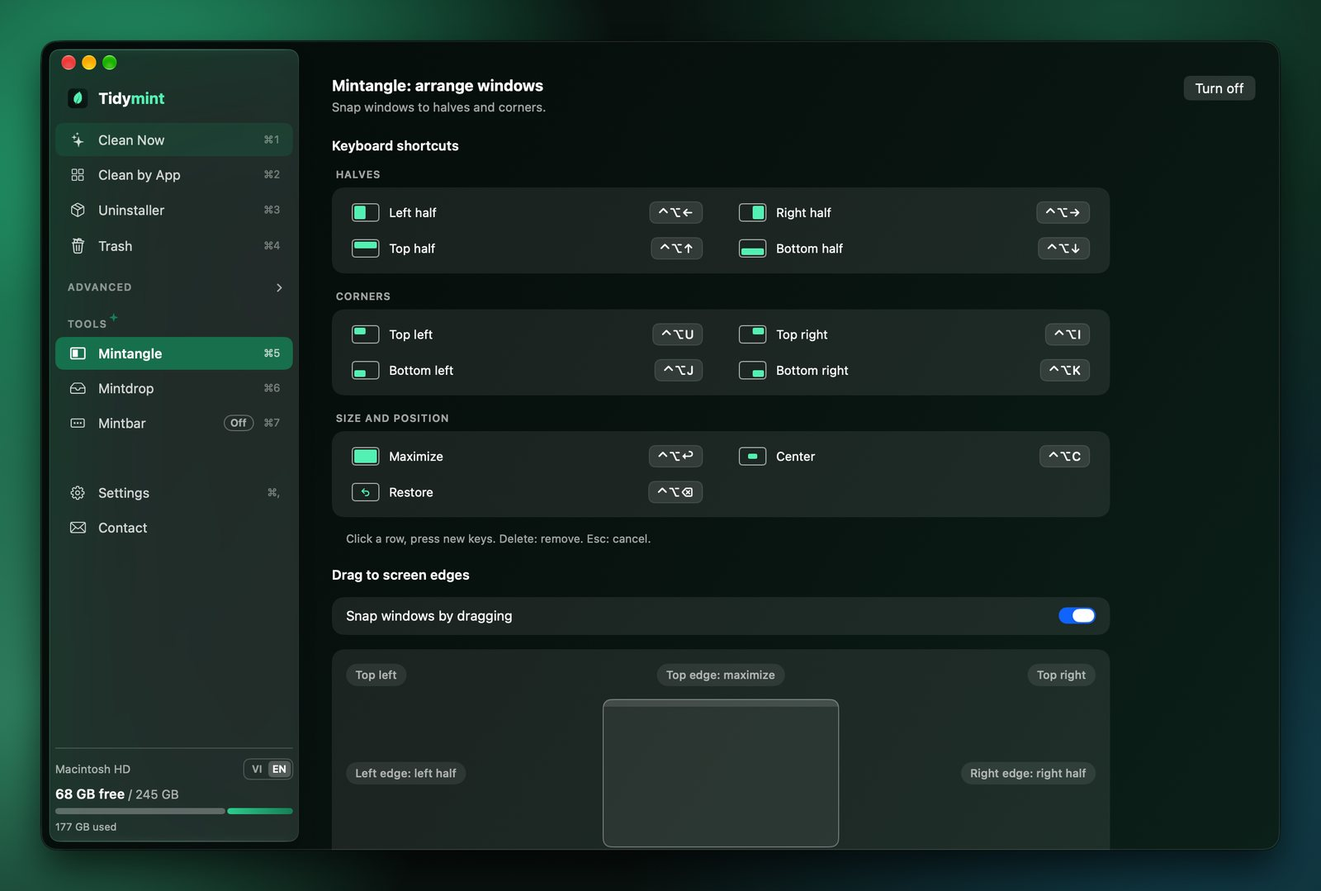
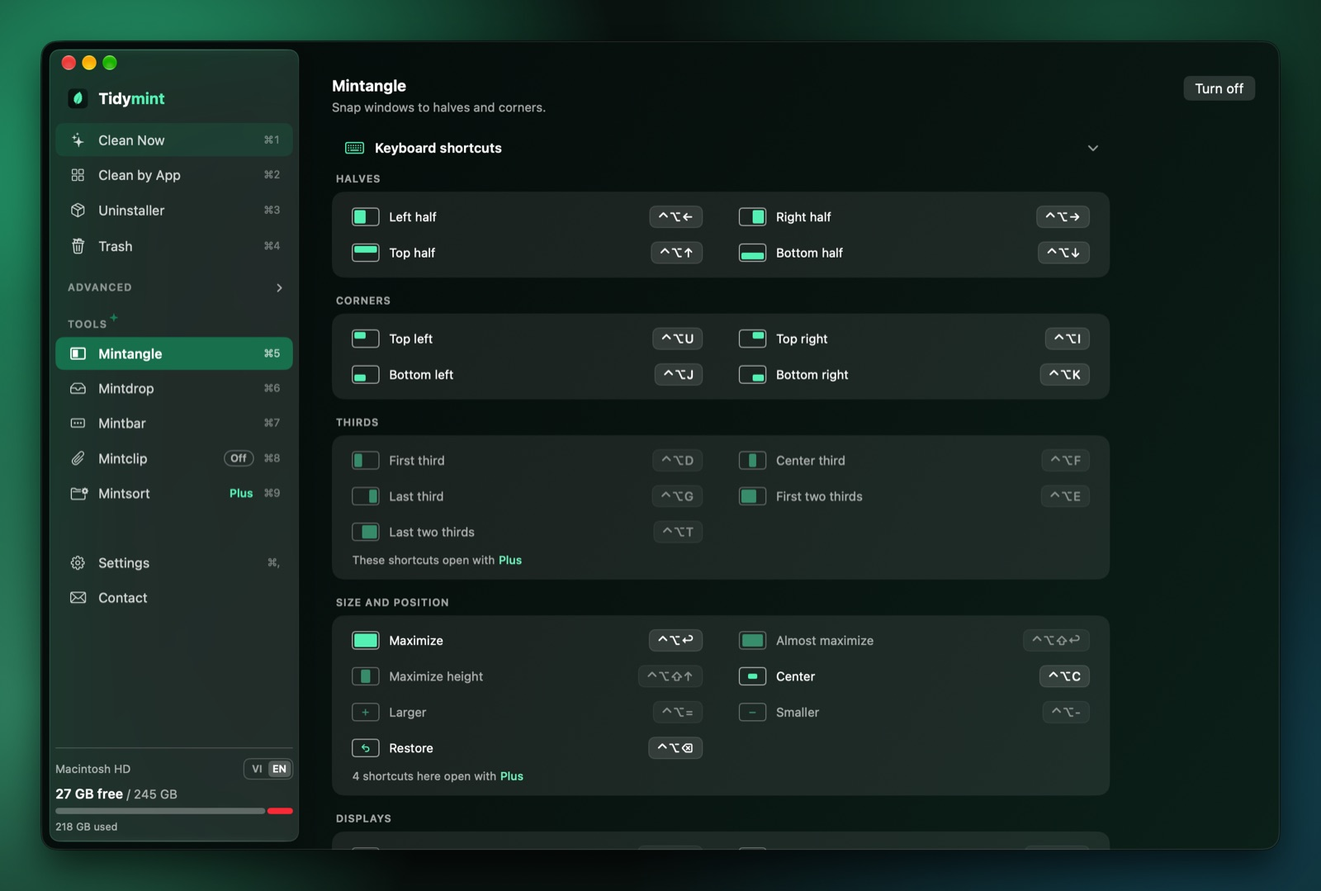
Website update: Mintbar guide and 1.0.0 screenshots; update worker daily tables

diff --git a/docs/vi/index.html b/docs/vi/index.html
@@ -293,7 +293,7 @@ summary{user-select:none}
 </section>
 
 <section style="padding-top:24px">
-  <div class="fx" id="mintbar"><div class="fx-t"><span class="ico"><svg viewBox="0 0 24 24" width="22" height="22" fill="none" stroke="currentColor" stroke-width="1.75" stroke-linecap="round" stroke-linejoin="round" aria-hidden="true"><rect width="18" height="18" x="3" y="3" rx="2"/><path d="M3 9h18"/></svg></span><span class="tag">Gọn menu · Mintbar</span><h3>Tối ưu menu bar</h3><p>Mintbar gom icon theo nhóm, một bấm để xem thêm.</p><ul><li><svg viewBox="0 0 24 24" width="16" height="16" fill="none" stroke="currentColor" stroke-width="1.75" stroke-linecap="round" stroke-linejoin="round" aria-hidden="true"><path d="M20 6 9 17l-5-5"/></svg><span>Hết lo tai thỏ</span></li><li><svg viewBox="0 0 24 24" width="16" height="16" fill="none" stroke="currentColor" stroke-width="1.75" stroke-linecap="round" stroke-linejoin="round" aria-hidden="true"><path d="M20 6 9 17l-5-5"/></svg><span>Bấm là mở</span></li><li><svg viewBox="0 0 24 24" width="16" height="16" fill="none" stroke="currentColor" stroke-width="1.75" stroke-linecap="round" stroke-linejoin="round" aria-hidden="true"><path d="M20 6 9 17l-5-5"/></svg><span>Nhóm theo việc</span></li></ul><p class="fine">2 nhóm, mỗi nhóm 4 app. Bật thì macOS mới hỏi quyền. <a class="plus-more" href="plus/?tu=mintbar">Mở thêm với Plus →</a></p><a class="more" href="mintbar-gon-thanh-menu-mac/">Cách dùng Mintbar <span class="arr r">→</span></a></div><div class="fx-i bars"><figure><figcaption>Trước</figcaption><img src="../mintbar-before.jpg?v=d3800ef0" alt="Menu bar trên Mac chật kín icon app trước khi dùng Mintbar" width="900" height="60" loading="lazy"></figure><figure class="after"><figcaption>Sau: gom vào hai nhóm</figcaption><img src="../mintbar-after.jpg?v=14f1bae5" alt="Cùng menu bar khi bật Mintbar: các app nằm sau hai icon nhóm AI và Tools" width="900" height="60" loading="lazy"></figure><figure class="after fan"><figcaption>Bấm icon nhóm: app mở ra ngay bên dưới</figcaption><img src="../mintbar-fan.jpg?v=bdbac061" alt="Bấm nhóm Tools, bốn app mở ra ngay dưới menu bar, con trỏ đang chỉ vào Google Drive" width="900" height="250" loading="lazy"></figure></div></div><div class="fx flip" id="mintangle"><div class="fx-t"><span class="ico"><svg viewBox="0 0 24 24" width="22" height="22" fill="none" stroke="currentColor" stroke-width="1.75" stroke-linecap="round" stroke-linejoin="round" aria-hidden="true"><rect width="7" height="18" x="3" y="3" rx="1"/><rect width="7" height="7" x="14" y="3" rx="1"/><rect width="7" height="7" x="14" y="14" rx="1"/></svg></span><span class="tag">Gọn cửa sổ · Mintangle</span><h3>Hết kéo tay chỉnh cỡ</h3><p>Mintangle xếp cửa sổ bằng một phím tắt hoặc một cú kéo.</p><ul><li><svg viewBox="0 0 24 24" width="16" height="16" fill="none" stroke="currentColor" stroke-width="1.75" stroke-linecap="round" stroke-linejoin="round" aria-hidden="true"><path d="M20 6 9 17l-5-5"/></svg><span>Một phím, nửa màn hình</span></li><li><svg viewBox="0 0 24 24" width="16" height="16" fill="none" stroke="currentColor" stroke-width="1.75" stroke-linecap="round" stroke-linejoin="round" aria-hidden="true"><path d="M20 6 9 17l-5-5"/></svg><span>Kéo vào mép là xếp</span></li><li><svg viewBox="0 0 24 24" width="16" height="16" fill="none" stroke="currentColor" stroke-width="1.75" stroke-linecap="round" stroke-linejoin="round" aria-hidden="true"><path d="M20 6 9 17l-5-5"/></svg><span>4 góc, 4 cửa sổ</span></li></ul><p class="fine">11 thao tác cơ bản. Bật thì macOS mới hỏi quyền Trợ năng. <a class="plus-more" href="plus/?tu=mintangle">Mở thêm với Plus →</a></p><a class="more" href="mintangle-xep-cua-so-mac/">Cách dùng Mintangle <span class="arr r">→</span></a></div><div class="fx-i"><img src="mintangle.jpg?v=433f4e3a" alt="Trang Mintangle liệt kê phím tắt xếp cửa sổ: nửa màn hình và góc" loading="lazy" width="1600" height="1079"></div></div><div class="fx" id="mintdrop"><div class="fx-t"><span class="ico"><svg viewBox="0 0 24 24" width="22" height="22" fill="none" stroke="currentColor" stroke-width="1.75" stroke-linecap="round" stroke-linejoin="round" aria-hidden="true"><polyline points="22 12 16 12 14 15 10 15 8 12 2 12"/><path d="M5.45 5.11 2 12v6a2 2 0 0 0 2 2h16a2 2 0 0 0 2-2v-6l-3.45-6.89A2 2 0 0 0 16.76 4H7.24a2 2 0 0 0-1.79 1.11z"/></svg></span><span class="tag">Gọn kéo thả · Mintdrop</span><h3>Gom một nơi. Thả đúng chỗ.</h3><p>Kệ nhỏ nổi trên màn hình, thả vào rồi kéo ra nơi cần.</p><ul><li><svg viewBox="0 0 24 24" width="16" height="16" fill="none" stroke="currentColor" stroke-width="1.75" stroke-linecap="round" stroke-linejoin="round" aria-hidden="true"><path d="M20 6 9 17l-5-5"/></svg><span>Lắc là có kệ</span></li><li><svg viewBox="0 0 24 24" width="16" height="16" fill="none" stroke="currentColor" stroke-width="1.75" stroke-linecap="round" stroke-linejoin="round" aria-hidden="true"><path d="M20 6 9 17l-5-5"/></svg><span>Xem nhanh trong kệ</span></li><li><svg viewBox="0 0 24 24" width="16" height="16" fill="none" stroke="currentColor" stroke-width="1.75" stroke-linecap="round" stroke-linejoin="round" aria-hidden="true"><path d="M20 6 9 17l-5-5"/></svg><span>Kéo nhầm? Có thể hoàn tác.</span></li></ul><p class="fine">Kệ chỉ nhớ đường dẫn, không chép file. <a class="plus-more" href="plus/?tu=mintdrop">Mở thêm với Plus →</a></p><a class="more" href="mintdrop-ke-tha-file-mac/">Cách dùng Mintdrop <span class="arr r">→</span></a></div><div class="fx-i"><img src="mintdrop.jpg?v=2d5efa71" alt="Kệ Mintdrop nổi trên Tidymint, đang giữ bốn file" loading="lazy" width="1600" height="891"></div></div><div class="fx flip" id="mintclip"><div class="fx-t"><span class="ico"><svg viewBox="0 0 24 24" width="22" height="22" fill="none" stroke="currentColor" stroke-width="1.75" stroke-linecap="round" stroke-linejoin="round" aria-hidden="true"><path d="m16 6-8.414 8.586a2 2 0 0 0 2.829 2.829l8.414-8.586a4 4 0 1 0-5.657-5.657l-8.379 8.551a6 6 0 1 0 8.485 8.485l8.379-8.551"/></svg></span><span class="tag">Gọn copy · Mintclip</span><h3>Copy rồi, tìm lại được.</h3><p>Mintclip giữ 100 mục bạn copy gần nhất, bấm là dán lại.</p><ul><li><svg viewBox="0 0 24 24" width="16" height="16" fill="none" stroke="currentColor" stroke-width="1.75" stroke-linecap="round" stroke-linejoin="round" aria-hidden="true"><path d="M20 6 9 17l-5-5"/></svg><span>Bấm là dán, không cần ⌘V</span></li><li><svg viewBox="0 0 24 24" width="16" height="16" fill="none" stroke="currentColor" stroke-width="1.75" stroke-linecap="round" stroke-linejoin="round" aria-hidden="true"><path d="M20 6 9 17l-5-5"/></svg><span>Gõ là tìm, cả chữ trong ảnh</span></li><li><svg viewBox="0 0 24 24" width="16" height="16" fill="none" stroke="currentColor" stroke-width="1.75" stroke-linecap="round" stroke-linejoin="round" aria-hidden="true"><path d="M20 6 9 17l-5-5"/></svg><span>Bỏ qua trình quản lý mật khẩu</span></li></ul><p class="fine">Bật thì macOS hỏi quyền dán từ app khác. Lưu trên máy của bạn. <a class="plus-more" href="plus/?tu=mintclip">Mở thêm với Plus →</a></p><a class="more" href="mintclip-lich-su-clipboard-mac/">Cách dùng Mintclip <span class="arr r">→</span></a></div><div class="fx-i"><img src="mintclip.jpg?v=48477e4a" alt="Danh sách Mintclip nổi trên trang Mintclip của Tidymint, đang giữ chữ, link, một ảnh và một mã màu" loading="lazy" width="1600" height="1050"></div></div>
+  <div class="fx" id="mintbar"><div class="fx-t"><span class="ico"><svg viewBox="0 0 24 24" width="22" height="22" fill="none" stroke="currentColor" stroke-width="1.75" stroke-linecap="round" stroke-linejoin="round" aria-hidden="true"><rect width="18" height="18" x="3" y="3" rx="2"/><path d="M3 9h18"/></svg></span><span class="tag">Gọn menu · Mintbar</span><h3>Tối ưu menu bar</h3><p>Mintbar gom icon theo nhóm, một bấm để xem thêm.</p><ul><li><svg viewBox="0 0 24 24" width="16" height="16" fill="none" stroke="currentColor" stroke-width="1.75" stroke-linecap="round" stroke-linejoin="round" aria-hidden="true"><path d="M20 6 9 17l-5-5"/></svg><span>Hết lo tai thỏ</span></li><li><svg viewBox="0 0 24 24" width="16" height="16" fill="none" stroke="currentColor" stroke-width="1.75" stroke-linecap="round" stroke-linejoin="round" aria-hidden="true"><path d="M20 6 9 17l-5-5"/></svg><span>Bấm là mở</span></li><li><svg viewBox="0 0 24 24" width="16" height="16" fill="none" stroke="currentColor" stroke-width="1.75" stroke-linecap="round" stroke-linejoin="round" aria-hidden="true"><path d="M20 6 9 17l-5-5"/></svg><span>Nhóm theo việc</span></li></ul><p class="fine">2 nhóm, mỗi nhóm 4 app. Bật thì macOS mới hỏi quyền. <a class="plus-more" href="plus/?tu=mintbar">Mở thêm với Plus →</a></p><a class="more" href="mintbar-gon-thanh-menu-mac/">Cách dùng Mintbar <span class="arr r">→</span></a></div><div class="fx-i bars"><figure><figcaption>Trước</figcaption><img src="../mintbar-before.jpg?v=d3800ef0" alt="Menu bar trên Mac chật kín icon app trước khi dùng Mintbar" width="900" height="60" loading="lazy"></figure><figure class="after"><figcaption>Sau: gom vào hai nhóm</figcaption><img src="../mintbar-after.jpg?v=14f1bae5" alt="Cùng menu bar khi bật Mintbar: các app nằm sau hai icon nhóm AI và Tools" width="900" height="60" loading="lazy"></figure><figure class="after fan"><figcaption>Bấm icon nhóm: app mở ra ngay bên dưới</figcaption><img src="../mintbar-fan.jpg?v=bdbac061" alt="Bấm nhóm Tools, bốn app mở ra ngay dưới menu bar, con trỏ đang chỉ vào Google Drive" width="900" height="250" loading="lazy"></figure></div></div><div class="fx flip" id="mintangle"><div class="fx-t"><span class="ico"><svg viewBox="0 0 24 24" width="22" height="22" fill="none" stroke="currentColor" stroke-width="1.75" stroke-linecap="round" stroke-linejoin="round" aria-hidden="true"><rect width="7" height="18" x="3" y="3" rx="1"/><rect width="7" height="7" x="14" y="3" rx="1"/><rect width="7" height="7" x="14" y="14" rx="1"/></svg></span><span class="tag">Gọn cửa sổ · Mintangle</span><h3>Hết kéo tay chỉnh cỡ</h3><p>Mintangle xếp cửa sổ bằng một phím tắt hoặc một cú kéo.</p><ul><li><svg viewBox="0 0 24 24" width="16" height="16" fill="none" stroke="currentColor" stroke-width="1.75" stroke-linecap="round" stroke-linejoin="round" aria-hidden="true"><path d="M20 6 9 17l-5-5"/></svg><span>Một phím, nửa màn hình</span></li><li><svg viewBox="0 0 24 24" width="16" height="16" fill="none" stroke="currentColor" stroke-width="1.75" stroke-linecap="round" stroke-linejoin="round" aria-hidden="true"><path d="M20 6 9 17l-5-5"/></svg><span>Kéo vào mép là xếp</span></li><li><svg viewBox="0 0 24 24" width="16" height="16" fill="none" stroke="currentColor" stroke-width="1.75" stroke-linecap="round" stroke-linejoin="round" aria-hidden="true"><path d="M20 6 9 17l-5-5"/></svg><span>4 góc, 4 cửa sổ</span></li></ul><p class="fine">11 thao tác cơ bản. Bật thì macOS mới hỏi quyền Trợ năng. <a class="plus-more" href="plus/?tu=mintangle">Mở thêm với Plus →</a></p><a class="more" href="mintangle-xep-cua-so-mac/">Cách dùng Mintangle <span class="arr r">→</span></a></div><div class="fx-i"><img src="mintangle.jpg?v=31fde24b" alt="Trang Mintangle liệt kê phím tắt xếp cửa sổ: nửa màn hình và góc" loading="lazy" width="1600" height="1079"></div></div><div class="fx" id="mintdrop"><div class="fx-t"><span class="ico"><svg viewBox="0 0 24 24" width="22" height="22" fill="none" stroke="currentColor" stroke-width="1.75" stroke-linecap="round" stroke-linejoin="round" aria-hidden="true"><polyline points="22 12 16 12 14 15 10 15 8 12 2 12"/><path d="M5.45 5.11 2 12v6a2 2 0 0 0 2 2h16a2 2 0 0 0 2-2v-6l-3.45-6.89A2 2 0 0 0 16.76 4H7.24a2 2 0 0 0-1.79 1.11z"/></svg></span><span class="tag">Gọn kéo thả · Mintdrop</span><h3>Gom một nơi. Thả đúng chỗ.</h3><p>Kệ nhỏ nổi trên màn hình, thả vào rồi kéo ra nơi cần.</p><ul><li><svg viewBox="0 0 24 24" width="16" height="16" fill="none" stroke="currentColor" stroke-width="1.75" stroke-linecap="round" stroke-linejoin="round" aria-hidden="true"><path d="M20 6 9 17l-5-5"/></svg><span>Lắc là có kệ</span></li><li><svg viewBox="0 0 24 24" width="16" height="16" fill="none" stroke="currentColor" stroke-width="1.75" stroke-linecap="round" stroke-linejoin="round" aria-hidden="true"><path d="M20 6 9 17l-5-5"/></svg><span>Xem nhanh trong kệ</span></li><li><svg viewBox="0 0 24 24" width="16" height="16" fill="none" stroke="currentColor" stroke-width="1.75" stroke-linecap="round" stroke-linejoin="round" aria-hidden="true"><path d="M20 6 9 17l-5-5"/></svg><span>Kéo nhầm? Có thể hoàn tác.</span></li></ul><p class="fine">Kệ chỉ nhớ đường dẫn, không chép file. <a class="plus-more" href="plus/?tu=mintdrop">Mở thêm với Plus →</a></p><a class="more" href="mintdrop-ke-tha-file-mac/">Cách dùng Mintdrop <span class="arr r">→</span></a></div><div class="fx-i"><img src="mintdrop.jpg?v=78a1c525" alt="Kệ Mintdrop nổi trên Tidymint, đang giữ bốn file" loading="lazy" width="1600" height="891"></div></div><div class="fx flip" id="mintclip"><div class="fx-t"><span class="ico"><svg viewBox="0 0 24 24" width="22" height="22" fill="none" stroke="currentColor" stroke-width="1.75" stroke-linecap="round" stroke-linejoin="round" aria-hidden="true"><path d="m16 6-8.414 8.586a2 2 0 0 0 2.829 2.829l8.414-8.586a4 4 0 1 0-5.657-5.657l-8.379 8.551a6 6 0 1 0 8.485 8.485l8.379-8.551"/></svg></span><span class="tag">Gọn copy · Mintclip</span><h3>Copy rồi, tìm lại được.</h3><p>Mintclip giữ 100 mục bạn copy gần nhất, bấm là dán lại.</p><ul><li><svg viewBox="0 0 24 24" width="16" height="16" fill="none" stroke="currentColor" stroke-width="1.75" stroke-linecap="round" stroke-linejoin="round" aria-hidden="true"><path d="M20 6 9 17l-5-5"/></svg><span>Bấm là dán, không cần ⌘V</span></li><li><svg viewBox="0 0 24 24" width="16" height="16" fill="none" stroke="currentColor" stroke-width="1.75" stroke-linecap="round" stroke-linejoin="round" aria-hidden="true"><path d="M20 6 9 17l-5-5"/></svg><span>Gõ là tìm, cả chữ trong ảnh</span></li><li><svg viewBox="0 0 24 24" width="16" height="16" fill="none" stroke="currentColor" stroke-width="1.75" stroke-linecap="round" stroke-linejoin="round" aria-hidden="true"><path d="M20 6 9 17l-5-5"/></svg><span>Bỏ qua trình quản lý mật khẩu</span></li></ul><p class="fine">Bật thì macOS hỏi quyền dán từ app khác. Lưu trên máy của bạn. <a class="plus-more" href="plus/?tu=mintclip">Mở thêm với Plus →</a></p><a class="more" href="mintclip-lich-su-clipboard-mac/">Cách dùng Mintclip <span class="arr r">→</span></a></div><div class="fx-i"><img src="mintclip.jpg?v=48477e4a" alt="Danh sách Mintclip nổi trên trang Mintclip của Tidymint, đang giữ chữ, link, một ảnh và một mã màu" loading="lazy" width="1600" height="1050"></div></div>
 </section>
 
 <section>

diff --git a/docs/index.html b/docs/index.html
@@ -293,7 +293,7 @@ summary{user-select:none}
 </section>
 
 <section style="padding-top:24px">
-  <div class="fx" id="mintbar"><div class="fx-t"><span class="ico"><svg viewBox="0 0 24 24" width="22" height="22" fill="none" stroke="currentColor" stroke-width="1.75" stroke-linecap="round" stroke-linejoin="round" aria-hidden="true"><rect width="18" height="18" x="3" y="3" rx="2"/><path d="M3 9h18"/></svg></span><span class="tag">A tidy menu bar · Mintbar</span><h3>A better menu bar</h3><p>Mintbar groups your icons. One click shows the rest.</p><ul><li><svg viewBox="0 0 24 24" width="16" height="16" fill="none" stroke="currentColor" stroke-width="1.75" stroke-linecap="round" stroke-linejoin="round" aria-hidden="true"><path d="M20 6 9 17l-5-5"/></svg><span>Notch? No problem</span></li><li><svg viewBox="0 0 24 24" width="16" height="16" fill="none" stroke="currentColor" stroke-width="1.75" stroke-linecap="round" stroke-linejoin="round" aria-hidden="true"><path d="M20 6 9 17l-5-5"/></svg><span>Click to open</span></li><li><svg viewBox="0 0 24 24" width="16" height="16" fill="none" stroke="currentColor" stroke-width="1.75" stroke-linecap="round" stroke-linejoin="round" aria-hidden="true"><path d="M20 6 9 17l-5-5"/></svg><span>Grouped by task</span></li></ul><p class="fine">2 groups, 4 apps each. macOS asks for permission only when you turn it on. <a class="plus-more" href="plus/?tu=mintbar">More with Plus →</a></p><a class="more" href="mintbar-tidy-menu-bar-mac/">How Mintbar works <span class="arr r">→</span></a></div><div class="fx-i bars"><figure><figcaption>Before</figcaption><img src="mintbar-before.jpg?v=d3800ef0" alt="Mac menu bar crowded with app icons before Mintbar" width="900" height="60" loading="lazy"></figure><figure class="after"><figcaption>After: gathered into two groups</figcaption><img src="mintbar-after.jpg?v=14f1bae5" alt="The same menu bar with Mintbar on: the apps sit behind two group icons, AI and Tools" width="900" height="60" loading="lazy"></figure><figure class="after fan"><figcaption>Click a group: its apps open right below</figcaption><img src="mintbar-fan.jpg?v=bdbac061" alt="Clicking the Tools group opens its four apps right below the menu bar, with the pointer on Google Drive" width="900" height="250" loading="lazy"></figure></div></div><div class="fx flip" id="mintangle"><div class="fx-t"><span class="ico"><svg viewBox="0 0 24 24" width="22" height="22" fill="none" stroke="currentColor" stroke-width="1.75" stroke-linecap="round" stroke-linejoin="round" aria-hidden="true"><rect width="7" height="18" x="3" y="3" rx="1"/><rect width="7" height="7" x="14" y="3" rx="1"/><rect width="7" height="7" x="14" y="14" rx="1"/></svg></span><span class="tag">Tidy windows · Mintangle</span><h3>No more dragging to resize</h3><p>Mintangle snaps windows with one shortcut or one drag.</p><ul><li><svg viewBox="0 0 24 24" width="16" height="16" fill="none" stroke="currentColor" stroke-width="1.75" stroke-linecap="round" stroke-linejoin="round" aria-hidden="true"><path d="M20 6 9 17l-5-5"/></svg><span>One key, half the screen</span></li><li><svg viewBox="0 0 24 24" width="16" height="16" fill="none" stroke="currentColor" stroke-width="1.75" stroke-linecap="round" stroke-linejoin="round" aria-hidden="true"><path d="M20 6 9 17l-5-5"/></svg><span>Drag to the edge, done</span></li><li><svg viewBox="0 0 24 24" width="16" height="16" fill="none" stroke="currentColor" stroke-width="1.75" stroke-linecap="round" stroke-linejoin="round" aria-hidden="true"><path d="M20 6 9 17l-5-5"/></svg><span>4 corners, 4 windows</span></li></ul><p class="fine">11 basic actions. macOS asks for Accessibility only when you turn it on. <a class="plus-more" href="plus/?tu=mintangle">More with Plus →</a></p><a class="more" href="mintangle-window-tiling-mac/">How Mintangle works <span class="arr r">→</span></a></div><div class="fx-i"><img src="mintangle.jpg?v=90d9dfd6" alt="Mintangle page listing window shortcuts for halves and corners" loading="lazy" width="1600" height="1079"></div></div><div class="fx" id="mintdrop"><div class="fx-t"><span class="ico"><svg viewBox="0 0 24 24" width="22" height="22" fill="none" stroke="currentColor" stroke-width="1.75" stroke-linecap="round" stroke-linejoin="round" aria-hidden="true"><polyline points="22 12 16 12 14 15 10 15 8 12 2 12"/><path d="M5.45 5.11 2 12v6a2 2 0 0 0 2 2h16a2 2 0 0 0 2-2v-6l-3.45-6.89A2 2 0 0 0 16.76 4H7.24a2 2 0 0 0-1.79 1.11z"/></svg></span><span class="tag">Tidy drag and drop · Mintdrop</span><h3>Gather in one place. Drop where it goes.</h3><p>A small floating shelf. Drop files in, drag them out.</p><ul><li><svg viewBox="0 0 24 24" width="16" height="16" fill="none" stroke="currentColor" stroke-width="1.75" stroke-linecap="round" stroke-linejoin="round" aria-hidden="true"><path d="M20 6 9 17l-5-5"/></svg><span>Shake for a shelf</span></li><li><svg viewBox="0 0 24 24" width="16" height="16" fill="none" stroke="currentColor" stroke-width="1.75" stroke-linecap="round" stroke-linejoin="round" aria-hidden="true"><path d="M20 6 9 17l-5-5"/></svg><span>Quick Look on the shelf</span></li><li><svg viewBox="0 0 24 24" width="16" height="16" fill="none" stroke="currentColor" stroke-width="1.75" stroke-linecap="round" stroke-linejoin="round" aria-hidden="true"><path d="M20 6 9 17l-5-5"/></svg><span>Dropped it wrong? Undo.</span></li></ul><p class="fine">The shelf remembers paths, it never copies files. <a class="plus-more" href="plus/?tu=mintdrop">More with Plus →</a></p><a class="more" href="mintdrop-drop-shelf-mac/">How Mintdrop works <span class="arr r">→</span></a></div><div class="fx-i"><img src="mintdrop.jpg?v=2dcd7475" alt="Mintdrop shelf floating over Tidymint with four files on it" loading="lazy" width="1600" height="891"></div></div><div class="fx flip" id="mintclip"><div class="fx-t"><span class="ico"><svg viewBox="0 0 24 24" width="22" height="22" fill="none" stroke="currentColor" stroke-width="1.75" stroke-linecap="round" stroke-linejoin="round" aria-hidden="true"><path d="m16 6-8.414 8.586a2 2 0 0 0 2.829 2.829l8.414-8.586a4 4 0 1 0-5.657-5.657l-8.379 8.551a6 6 0 1 0 8.485 8.485l8.379-8.551"/></svg></span><span class="tag">Tidy copy and paste · Mintclip</span><h3>Copied once, found again.</h3><p>Mintclip keeps your last 100 copies. One click pastes one back.</p><ul><li><svg viewBox="0 0 24 24" width="16" height="16" fill="none" stroke="currentColor" stroke-width="1.75" stroke-linecap="round" stroke-linejoin="round" aria-hidden="true"><path d="M20 6 9 17l-5-5"/></svg><span>Click to paste, no ⌘V needed</span></li><li><svg viewBox="0 0 24 24" width="16" height="16" fill="none" stroke="currentColor" stroke-width="1.75" stroke-linecap="round" stroke-linejoin="round" aria-hidden="true"><path d="M20 6 9 17l-5-5"/></svg><span>Type to find it, even text in images</span></li><li><svg viewBox="0 0 24 24" width="16" height="16" fill="none" stroke="currentColor" stroke-width="1.75" stroke-linecap="round" stroke-linejoin="round" aria-hidden="true"><path d="M20 6 9 17l-5-5"/></svg><span>Password managers are skipped</span></li></ul><p class="fine">macOS asks to allow pasting from other apps when you turn it on. Kept on your Mac. <a class="plus-more" href="plus/?tu=mintclip">More with Plus →</a></p><a class="more" href="mintclip-clipboard-history-mac/">How Mintclip works <span class="arr r">→</span></a></div><div class="fx-i"><img src="mintclip.jpg?v=7a9b0c8d" alt="The Mintclip list floating over Tidymint’s Mintclip page, holding text, links, an image and a colour code" loading="lazy" width="1600" height="1050"></div></div>
+  <div class="fx" id="mintbar"><div class="fx-t"><span class="ico"><svg viewBox="0 0 24 24" width="22" height="22" fill="none" stroke="currentColor" stroke-width="1.75" stroke-linecap="round" stroke-linejoin="round" aria-hidden="true"><rect width="18" height="18" x="3" y="3" rx="2"/><path d="M3 9h18"/></svg></span><span class="tag">A tidy menu bar · Mintbar</span><h3>A better menu bar</h3><p>Mintbar groups your icons. One click shows the rest.</p><ul><li><svg viewBox="0 0 24 24" width="16" height="16" fill="none" stroke="currentColor" stroke-width="1.75" stroke-linecap="round" stroke-linejoin="round" aria-hidden="true"><path d="M20 6 9 17l-5-5"/></svg><span>Notch? No problem</span></li><li><svg viewBox="0 0 24 24" width="16" height="16" fill="none" stroke="currentColor" stroke-width="1.75" stroke-linecap="round" stroke-linejoin="round" aria-hidden="true"><path d="M20 6 9 17l-5-5"/></svg><span>Click to open</span></li><li><svg viewBox="0 0 24 24" width="16" height="16" fill="none" stroke="currentColor" stroke-width="1.75" stroke-linecap="round" stroke-linejoin="round" aria-hidden="true"><path d="M20 6 9 17l-5-5"/></svg><span>Grouped by task</span></li></ul><p class="fine">2 groups, 4 apps each. macOS asks for permission only when you turn it on. <a class="plus-more" href="plus/?tu=mintbar">More with Plus →</a></p><a class="more" href="mintbar-tidy-menu-bar-mac/">How Mintbar works <span class="arr r">→</span></a></div><div class="fx-i bars"><figure><figcaption>Before</figcaption><img src="mintbar-before.jpg?v=d3800ef0" alt="Mac menu bar crowded with app icons before Mintbar" width="900" height="60" loading="lazy"></figure><figure class="after"><figcaption>After: gathered into two groups</figcaption><img src="mintbar-after.jpg?v=14f1bae5" alt="The same menu bar with Mintbar on: the apps sit behind two group icons, AI and Tools" width="900" height="60" loading="lazy"></figure><figure class="after fan"><figcaption>Click a group: its apps open right below</figcaption><img src="mintbar-fan.jpg?v=bdbac061" alt="Clicking the Tools group opens its four apps right below the menu bar, with the pointer on Google Drive" width="900" height="250" loading="lazy"></figure></div></div><div class="fx flip" id="mintangle"><div class="fx-t"><span class="ico"><svg viewBox="0 0 24 24" width="22" height="22" fill="none" stroke="currentColor" stroke-width="1.75" stroke-linecap="round" stroke-linejoin="round" aria-hidden="true"><rect width="7" height="18" x="3" y="3" rx="1"/><rect width="7" height="7" x="14" y="3" rx="1"/><rect width="7" height="7" x="14" y="14" rx="1"/></svg></span><span class="tag">Tidy windows · Mintangle</span><h3>No more dragging to resize</h3><p>Mintangle snaps windows with one shortcut or one drag.</p><ul><li><svg viewBox="0 0 24 24" width="16" height="16" fill="none" stroke="currentColor" stroke-width="1.75" stroke-linecap="round" stroke-linejoin="round" aria-hidden="true"><path d="M20 6 9 17l-5-5"/></svg><span>One key, half the screen</span></li><li><svg viewBox="0 0 24 24" width="16" height="16" fill="none" stroke="currentColor" stroke-width="1.75" stroke-linecap="round" stroke-linejoin="round" aria-hidden="true"><path d="M20 6 9 17l-5-5"/></svg><span>Drag to the edge, done</span></li><li><svg viewBox="0 0 24 24" width="16" height="16" fill="none" stroke="currentColor" stroke-width="1.75" stroke-linecap="round" stroke-linejoin="round" aria-hidden="true"><path d="M20 6 9 17l-5-5"/></svg><span>4 corners, 4 windows</span></li></ul><p class="fine">11 basic actions. macOS asks for Accessibility only when you turn it on. <a class="plus-more" href="plus/?tu=mintangle">More with Plus →</a></p><a class="more" href="mintangle-window-tiling-mac/">How Mintangle works <span class="arr r">→</span></a></div><div class="fx-i"><img src="mintangle.jpg?v=8a5fb6d4" alt="Mintangle page listing window shortcuts for halves and corners" loading="lazy" width="1600" height="1079"></div></div><div class="fx" id="mintdrop"><div class="fx-t"><span class="ico"><svg viewBox="0 0 24 24" width="22" height="22" fill="none" stroke="currentColor" stroke-width="1.75" stroke-linecap="round" stroke-linejoin="round" aria-hidden="true"><polyline points="22 12 16 12 14 15 10 15 8 12 2 12"/><path d="M5.45 5.11 2 12v6a2 2 0 0 0 2 2h16a2 2 0 0 0 2-2v-6l-3.45-6.89A2 2 0 0 0 16.76 4H7.24a2 2 0 0 0-1.79 1.11z"/></svg></span><span class="tag">Tidy drag and drop · Mintdrop</span><h3>Gather in one place. Drop where it goes.</h3><p>A small floating shelf. Drop files in, drag them out.</p><ul><li><svg viewBox="0 0 24 24" width="16" height="16" fill="none" stroke="currentColor" stroke-width="1.75" stroke-linecap="round" stroke-linejoin="round" aria-hidden="true"><path d="M20 6 9 17l-5-5"/></svg><span>Shake for a shelf</span></li><li><svg viewBox="0 0 24 24" width="16" height="16" fill="none" stroke="currentColor" stroke-width="1.75" stroke-linecap="round" stroke-linejoin="round" aria-hidden="true"><path d="M20 6 9 17l-5-5"/></svg><span>Quick Look on the shelf</span></li><li><svg viewBox="0 0 24 24" width="16" height="16" fill="none" stroke="currentColor" stroke-width="1.75" stroke-linecap="round" stroke-linejoin="round" aria-hidden="true"><path d="M20 6 9 17l-5-5"/></svg><span>Dropped it wrong? Undo.</span></li></ul><p class="fine">The shelf remembers paths, it never copies files. <a class="plus-more" href="plus/?tu=mintdrop">More with Plus →</a></p><a class="more" href="mintdrop-drop-shelf-mac/">How Mintdrop works <span class="arr r">→</span></a></div><div class="fx-i"><img src="mintdrop.jpg?v=deabbcc4" alt="Mintdrop shelf floating over Tidymint with four files on it" loading="lazy" width="1600" height="891"></div></div><div class="fx flip" id="mintclip"><div class="fx-t"><span class="ico"><svg viewBox="0 0 24 24" width="22" height="22" fill="none" stroke="currentColor" stroke-width="1.75" stroke-linecap="round" stroke-linejoin="round" aria-hidden="true"><path d="m16 6-8.414 8.586a2 2 0 0 0 2.829 2.829l8.414-8.586a4 4 0 1 0-5.657-5.657l-8.379 8.551a6 6 0 1 0 8.485 8.485l8.379-8.551"/></svg></span><span class="tag">Tidy copy and paste · Mintclip</span><h3>Copied once, found again.</h3><p>Mintclip keeps your last 100 copies. One click pastes one back.</p><ul><li><svg viewBox="0 0 24 24" width="16" height="16" fill="none" stroke="currentColor" stroke-width="1.75" stroke-linecap="round" stroke-linejoin="round" aria-hidden="true"><path d="M20 6 9 17l-5-5"/></svg><span>Click to paste, no ⌘V needed</span></li><li><svg viewBox="0 0 24 24" width="16" height="16" fill="none" stroke="currentColor" stroke-width="1.75" stroke-linecap="round" stroke-linejoin="round" aria-hidden="true"><path d="M20 6 9 17l-5-5"/></svg><span>Type to find it, even text in images</span></li><li><svg viewBox="0 0 24 24" width="16" height="16" fill="none" stroke="currentColor" stroke-width="1.75" stroke-linecap="round" stroke-linejoin="round" aria-hidden="true"><path d="M20 6 9 17l-5-5"/></svg><span>Password managers are skipped</span></li></ul><p class="fine">macOS asks to allow pasting from other apps when you turn it on. Kept on your Mac. <a class="plus-more" href="plus/?tu=mintclip">More with Plus →</a></p><a class="more" href="mintclip-clipboard-history-mac/">How Mintclip works <span class="arr r">→</span></a></div><div class="fx-i"><img src="mintclip.jpg?v=7a9b0c8d" alt="The Mintclip list floating over Tidymint’s Mintclip page, holding text, links, an image and a colour code" loading="lazy" width="1600" height="1050"></div></div>
 </section>
 
 <section>

diff --git a/backend/update-worker.js b/backend/update-worker.js
@@ -121,6 +121,17 @@ const STATS = {
   // Copies in use by kind (from the release that opens sales): blob11 "0" free, "1" in the trial, "2" one or more tools
   // bought, "3" the bundle bought; "" a release before it. One copy is one install number, so this counts Macs, not checks.
   "plans-week": `SELECT toStartOfWeek(timestamp) AS week, blob11 AS plan, count(DISTINCT blob10) AS machines FROM tidymint_checks WHERE ${D90} AND blob1 = 'Tidymint' AND blob10 != '' GROUP BY week, plan ORDER BY week`,
+  // The same count by day and version, for the morning report (23/11/2026): how many copies of each release are
+  // free, in the trial or paid. A copy shows the kind it had at its check of that day.
+  "plans-day": `SELECT ${DAY} AS day, blob2 AS version, blob11 AS plan, count(DISTINCT blob10) AS machines FROM tidymint_checks WHERE ${D90} AND blob1 = 'Tidymint' AND blob10 != '' GROUP BY day, version, plan ORDER BY day`,
+  // The licence Worker's own dataset (tidymint_license; layout in backend/license/license-worker.js, count()). Totals
+  // only: no key id, no machine hash and no address leaves in these tables.
+  //   trials-day: trial requests by outcome ("started": a Mac began its trial that day; "had": it asked again).
+  //   keys-day: key requests by action and outcome ("confirm"/"added": a Mac was added to a key).
+  //   keys-added-day: Macs added to a key, by product and whole days since that Mac's trial began ("none": never tried).
+  "trials-day": `SELECT ${DAY} AS day, blob2 AS action, blob3 AS outcome, SUM(_sample_interval) AS n, count(DISTINCT blob6) AS machines FROM tidymint_license WHERE ${D90} AND blob1 = 'license' AND (blob2 = 'trial/start' OR blob2 = 'trial/status') GROUP BY day, action, outcome ORDER BY day`,
+  "keys-day": `SELECT ${DAY} AS day, blob2 AS action, blob3 AS outcome, SUM(_sample_interval) AS n, count(DISTINCT blob5) AS keys, count(DISTINCT blob6) AS machines FROM tidymint_license WHERE ${D90} AND blob1 = 'license' AND blob2 != 'trial/start' AND blob2 != 'trial/status' GROUP BY day, action, outcome ORDER BY day`,
+  "keys-added-day": `SELECT ${DAY} AS day, blob3 AS product, blob4 AS days_since_trial, SUM(_sample_interval) AS n FROM tidymint_license WHERE ${D90} AND blob1 = 'funnel' AND blob2 = 'trial_to_key' GROUP BY day, product, days_since_trial ORDER BY day`,
   "clicks": `SELECT ${DAY} AS day, blob2 AS version, SUM(_sample_interval) AS n FROM tidymint_checks WHERE ${D90} AND blob1 = 'click' GROUP BY day, version ORDER BY day`,
   "usage": `SELECT ${DAY} AS day, blob2 AS version, SUM(_sample_interval) AS reports, ` +
            USAGE_KEYS.map((k, i) => `SUM(double${i + 1}) AS ${k}`).join(", ") +

diff --git a/docs/vi/mintbar-gon-thanh-menu-mac/index.html b/docs/vi/mintbar-gon-thanh-menu-mac/index.html
@@ -271,14 +271,14 @@ summary{user-select:none}
 <h2 id="tao-nhom">Tạo nhóm</h2>
 <ol class="steps"><li>Ở mục <b>Nhóm</b>, bấm <b>Thêm nhóm</b>.</li>
 <li>Đặt tên và chọn icon cho nhóm: 12 icon miễn phí, Plus có mọi bộ icon và màu riêng.</li>
-<li>Tick các app muốn gom vào. Icon của các app đó rời menu bar, icon nhóm hiện ra thay chỗ.</li></ol>
-<figure class="fig-app"><img src="../mintbar.jpg?v=32999b0c" alt="Trang Mintbar của Tidymint: danh sách app có icon trên menu bar và hai nhóm AI, Kết nối" width="1600" height="1079" loading="lazy"><figcaption>Trang Mintbar: mỗi app nằm trong nhóm nào, và hai nhóm đang dùng.</figcaption></figure>
+<li>Bấm <b>Thêm app</b> để thấy đủ danh sách, rồi tick các app muốn gom vào. Icon của các app đó rời menu bar, icon nhóm hiện ra thay chỗ.</li></ol>
+<figure class="fig-app"><img src="../mintbar.jpg?v=2e1272ac" alt="Trang Mintbar của Tidymint: danh sách app có icon trên menu bar và hai nhóm AI, Kết nối" width="1600" height="1079" loading="lazy"><figcaption>Trang Mintbar: mỗi app nằm trong nhóm nào, và hai nhóm đang dùng.</figcaption></figure>
 <p>Dưới icon nhóm có một hàng chấm nhỏ, mỗi chấm là một app trong nhóm. Một app có thể nằm trong nhiều nhóm.</p>
 <h2 id="dung">Mở app trong nhóm</h2>
 <ul><li><b>Bấm icon nhóm</b>: các app mở ra ngay bên dưới. Bấm lần nữa, hoặc nhấn Esc, để đóng.</li>
 <li><b>Bấm một app vừa mở ra</b>: menu hoặc cửa sổ nhỏ của app đó mở ra. App chưa chạy thì được mở lên.</li>
 <li><b>Giữ Option rồi bấm icon nhóm</b>: mở trang Mintbar.</li>
-<li><b>Đổi thứ tự icon</b>: giữ ⌘ rồi kéo icon tới chỗ mới. Đây là tính năng có sẵn của macOS, dùng được cho cả icon nhóm.</li></ul>
+<li><b>Đổi thứ tự icon</b>: giữ ⌘ rồi kéo icon tới chỗ mới.</li></ul>
 <figure class="fig-app"><img src="../../mintbar-fan.jpg?v=bdbac061" alt="Bấm nhóm Tools, bốn app mở ra ngay dưới menu bar, con trỏ đang chỉ vào Google Drive" width="900" height="250" loading="lazy"><figcaption>Bấm icon nhóm: app mở ra ngay bên dưới.</figcaption></figure>
 <h2 id="luu-y">Vài điều cần biết</h2>
 <ul><li><b>Đồng hồ và Trung tâm điều khiển luôn ở lại</b> trên menu bar, Mintbar không đưa hai mục này vào nhóm.</li>

diff --git a/docs/mintbar-tidy-menu-bar-mac/index.html b/docs/mintbar-tidy-menu-bar-mac/index.html
@@ -271,14 +271,14 @@ summary{user-select:none}
 <h2 id="group">Make a group</h2>
 <ol class="steps"><li>Under <b>Groups</b>, click <b>New group</b>.</li>
 <li>Name it and pick an icon: 12 are free, Plus has every icon set and your own colors.</li>
-<li>Tick the apps to gather. Their icons leave the menu bar and the group icon takes their place.</li></ol>
-<figure class="fig-app"><img src="../mintbar.jpg?v=59d3aaae" alt="The Mintbar page in Tidymint: the apps with a menu bar icon and two groups, AI and Connection" width="1600" height="1079" loading="lazy"><figcaption>The Mintbar page: which group each app is in, and the two groups in use.</figcaption></figure>
+<li>Click <b>Add apps</b> to see the full list, then tick the apps to gather. Their icons leave the menu bar and the group icon takes their place.</li></ol>
+<figure class="fig-app"><img src="../mintbar.jpg?v=0b6147d9" alt="The Mintbar page in Tidymint: the apps with a menu bar icon and two groups, AI and Connection" width="1600" height="1079" loading="lazy"><figcaption>The Mintbar page: which group each app is in, and the two groups in use.</figcaption></figure>
 <p>A row of small dots under the group icon shows one dot per app. An app can sit in several groups.</p>
 <h2 id="use">Open an app from a group</h2>
 <ul><li><b>Click the group icon</b>: its apps open right below. Click again, or press Esc, to close.</li>
 <li><b>Click one of those apps</b>: its menu or panel opens. An app that is not running is started.</li>
 <li><b>Option-click the group icon</b>: opens the Mintbar page.</li>
-<li><b>Reorder icons</b>: hold ⌘ and drag an icon to its new place. This is built into macOS and works for group icons too.</li></ul>
+<li><b>Reorder icons</b>: hold ⌘ and drag an icon to its new place.</li></ul>
 <figure class="fig-app"><img src="../mintbar-fan.jpg?v=bdbac061" alt="Clicking the Tools group opens its four apps right below the menu bar, with the pointer on Google Drive" width="900" height="250" loading="lazy"><figcaption>Click a group: its apps open right below.</figcaption></figure>
 <h2 id="notes">Good to know</h2>
 <ul><li><b>The clock and Control Center always stay</b> in the menu bar. Mintbar never offers them for a group.</li>

diff --git a/docs/vi/mintangle-xep-cua-so-mac/index.html b/docs/vi/mintangle-xep-cua-so-mac/index.html
@@ -264,7 +264,7 @@ summary{user-select:none}
 <ol class="steps"><li>Trong Tidymint, chọn <b>CÔNG CỤ › Mintangle</b> ở thanh bên, bấm <b>Bật và cấp quyền</b>.</li>
 <li>macOS hiện hộp thoại hỏi quyền. Mở <b>Cài đặt hệ thống › Quyền riêng tư &amp; Bảo mật › Trợ năng</b> (Accessibility), bật công tắc cạnh Tidymint.</li>
 <li>Quay lại Tidymint: trang Mintangle tự nhận quyền và bắt đầu chạy.</li></ol>
-<figure class="fig-app"><img src="../mintangle.jpg?v=433f4e3a" alt="Trang Mintangle của Tidymint liệt kê phím tắt cho nửa màn hình, góc và vị trí" width="1600" height="1079" loading="lazy"><figcaption>Mọi phím tắt nằm ngay trên trang Mintangle, kèm hình nhỏ cho biết cửa sổ sẽ về đâu.</figcaption></figure>
+<figure class="fig-app"><img src="../mintangle.jpg?v=31fde24b" alt="Trang Mintangle của Tidymint liệt kê phím tắt cho nửa màn hình, góc và vị trí" width="1600" height="1079" loading="lazy"><figcaption>Mọi phím tắt nằm ngay trên trang Mintangle, kèm hình nhỏ cho biết cửa sổ sẽ về đâu.</figcaption></figure>
 <h2 id="phim-tat">Phím tắt mặc định</h2>
 <p>⌃ là Control, ⌥ là Option, ⇧ là Shift, ⌘ là Command.</p>
 <div class="tbl"><table><tr><th>Thao tác</th><th>Phím tắt</th></tr><tr><td>Nửa trái / phải</td><td><code>⌃⌥ ← / →</code></td></tr><tr><td>Nửa trên / dưới</td><td><code>⌃⌥ ↑ / ↓</code></td></tr><tr><td>Góc trên trái, trên phải, dưới trái, dưới phải</td><td><code>⌃⌥ U, I, J, K</code></td></tr><tr><td>Phóng to hết</td><td><code>⌃⌥ Return</code></td></tr><tr><td>Căn giữa</td><td><code>⌃⌥ C</code></td></tr><tr><td>Trả về cỡ cũ</td><td><code>⌃⌥ Delete</code></td></tr></table></div>

diff --git a/docs/mintangle-window-tiling-mac/index.html b/docs/mintangle-window-tiling-mac/index.html
@@ -264,7 +264,7 @@ summary{user-select:none}
 <ol class="steps"><li>In Tidymint, choose <b>TOOLS › Mintangle</b> in the sidebar and click <b>Turn on and grant permission</b>.</li>
 <li>macOS asks for permission. Open <b>System Settings › Privacy &amp; Security › Accessibility</b> and switch Tidymint on.</li>
 <li>Back in Tidymint, the Mintangle page picks up the permission and starts working.</li></ol>
-<figure class="fig-app"><img src="../mintangle.jpg?v=90d9dfd6" alt="The Mintangle page in Tidymint listing shortcuts for halves, corners and position" width="1600" height="1079" loading="lazy"><figcaption>Every shortcut is listed on the Mintangle page, with a small picture of where the window goes.</figcaption></figure>
+<figure class="fig-app"><img src="../mintangle.jpg?v=8a5fb6d4" alt="The Mintangle page in Tidymint listing shortcuts for halves, corners and position" width="1600" height="1079" loading="lazy"><figcaption>Every shortcut is listed on the Mintangle page, with a small picture of where the window goes.</figcaption></figure>
 <h2 id="shortcuts">Default shortcuts</h2>
 <p>⌃ is Control, ⌥ is Option, ⇧ is Shift, ⌘ is Command.</p>
 <div class="tbl"><table><tr><th>Action</th><th>Shortcut</th></tr><tr><td>Left / right half</td><td><code>⌃⌥ ← / →</code></td></tr><tr><td>Top / bottom half</td><td><code>⌃⌥ ↑ / ↓</code></td></tr><tr><td>Top left, top right, bottom left, bottom right</td><td><code>⌃⌥ U, I, J, K</code></td></tr><tr><td>Maximize</td><td><code>⌃⌥ Return</code></td></tr><tr><td>Center</td><td><code>⌃⌥ C</code></td></tr><tr><td>Restore</td><td><code>⌃⌥ Delete</code></td></tr></table></div>

diff --git a/docs/vi/mintdrop-ke-tha-file-mac/index.html b/docs/vi/mintdrop-ke-tha-file-mac/index.html
@@ -262,7 +262,7 @@ summary{user-select:none}
 <li><b>Giữ tạm file</b> trong lúc bạn đổi cửa sổ hay đổi màn hình làm việc.</li></ul>
 <h2 id="bat">Bật Mintdrop</h2>
 <ol class="steps"><li>Mở Tidymint, ở thanh bên chọn nhóm <b>CÔNG CỤ › Mintdrop</b>.</li><li>Bấm <b>Bật Mintdrop</b>. Không cần cấp quyền gì thêm.</li></ol>
-<figure class="fig-app"><img src="../mintdrop.jpg?v=2d5efa71" alt="Trang Mintdrop của Tidymint với chiếc kệ nổi đang giữ bốn file: một ảnh chụp, một ảnh, một PDF và một file chữ" width="1600" height="891" loading="lazy"><figcaption>Kệ nổi phía trên các cửa sổ. Trang Mintdrop cho biết kệ đang giữ bao nhiêu file.</figcaption></figure>
+<figure class="fig-app"><img src="../mintdrop.jpg?v=78a1c525" alt="Trang Mintdrop của Tidymint với chiếc kệ nổi đang giữ bốn file: một ảnh chụp, một ảnh, một PDF và một file chữ" width="1600" height="891" loading="lazy"><figcaption>Kệ nổi phía trên các cửa sổ. Trang Mintdrop cho biết kệ đang giữ bao nhiêu file.</figcaption></figure>
 <h2 id="mo-ke">Mở kệ: 3 cách</h2>
 <ul><li><b>Lắc chuột khi đang kéo file</b>: kéo một hay nhiều file trong Finder, lắc qua lại vài lần, kệ hiện ngay dưới con trỏ. Thả tay là file nằm trên kệ. Tắt được trong trang Mintdrop.</li>
 <li><b>Phím tắt ⌃⌥S</b> (Control, Option, S): mở hoặc ẩn kệ.</li>

diff --git a/docs/mintdrop-drop-shelf-mac/index.html b/docs/mintdrop-drop-shelf-mac/index.html
@@ -262,7 +262,7 @@ summary{user-select:none}
 <li><b>Hold a file for a moment</b> while you switch windows or desktops.</li></ul>
 <h2 id="turn-on">Turn on Mintdrop</h2>
 <ol class="steps"><li>Open Tidymint and choose <b>TOOLS › Mintdrop</b> in the sidebar.</li><li>Click <b>Turn on</b>. No extra permission is needed.</li></ol>
-<figure class="fig-app"><img src="../mintdrop.jpg?v=2dcd7475" alt="The Mintdrop page in Tidymint with the floating shelf holding four files: a photo, an image, a PDF and a text file" width="1600" height="891" loading="lazy"><figcaption>The shelf floats above your windows. The Mintdrop page shows how many files it holds.</figcaption></figure>
+<figure class="fig-app"><img src="../mintdrop.jpg?v=deabbcc4" alt="The Mintdrop page in Tidymint with the floating shelf holding four files: a photo, an image, a PDF and a text file" width="1600" height="891" loading="lazy"><figcaption>The shelf floats above your windows. The Mintdrop page shows how many files it holds.</figcaption></figure>
 <h2 id="open">Open the shelf: 3 ways</h2>
 <ul><li><b>Shake while dragging files</b>: drag one or more files in Finder and shake the pointer a few times. The shelf appears under the pointer; let go and the files land on it. You can turn this off on the Mintdrop page.</li>
 <li><b>Shortcut ⌃⌥S</b> (Control, Option, S) shows or hides the shelf.</li>

diff --git a/tools/guides_content.py b/tools/guides_content.py
@@ -2667,14 +2667,14 @@ GUIDES.append(dict(
 <h2 id="tao-nhom">Tạo nhóm</h2>
 <ol class="steps"><li>Ở mục <b>Nhóm</b>, bấm <b>Thêm nhóm</b>.</li>
 <li>Đặt tên và chọn icon cho nhóm: 12 icon miễn phí, Plus có mọi bộ icon và màu riêng.</li>
-<li>Tick các app muốn gom vào. Icon của các app đó rời menu bar, icon nhóm hiện ra thay chỗ.</li></ol>
+<li>Bấm <b>Thêm app</b> để thấy đủ danh sách, rồi tick các app muốn gom vào. Icon của các app đó rời menu bar, icon nhóm hiện ra thay chỗ.</li></ol>
 <figure class="fig-app"><img src="../mintbar.jpg" alt="Trang Mintbar của Tidymint: danh sách app có icon trên menu bar và hai nhóm AI, Kết nối" width="1600" height="1079" loading="lazy"><figcaption>Trang Mintbar: mỗi app nằm trong nhóm nào, và hai nhóm đang dùng.</figcaption></figure>
 <p>Dưới icon nhóm có một hàng chấm nhỏ, mỗi chấm là một app trong nhóm. Một app có thể nằm trong nhiều nhóm.</p>
 <h2 id="dung">Mở app trong nhóm</h2>
 <ul><li><b>Bấm icon nhóm</b>: các app mở ra ngay bên dưới. Bấm lần nữa, hoặc nhấn Esc, để đóng.</li>
 <li><b>Bấm một app vừa mở ra</b>: menu hoặc cửa sổ nhỏ của app đó mở ra. App chưa chạy thì được mở lên.</li>
 <li><b>Giữ Option rồi bấm icon nhóm</b>: mở trang Mintbar.</li>
-<li><b>Đổi thứ tự icon</b>: giữ ⌘ rồi kéo icon tới chỗ mới. Đây là tính năng có sẵn của macOS, dùng được cho cả icon nhóm.</li></ul>
+<li><b>Đổi thứ tự icon</b>: giữ ⌘ rồi kéo icon tới chỗ mới.</li></ul>
 <figure class="fig-app"><img src="../../mintbar-fan.jpg" alt="Bấm nhóm Tools, bốn app mở ra ngay dưới menu bar, con trỏ đang chỉ vào Google Drive" width="900" height="250" loading="lazy"><figcaption>Bấm icon nhóm: app mở ra ngay bên dưới.</figcaption></figure>
 <h2 id="luu-y">Vài điều cần biết</h2>
 <ul><li><b>Đồng hồ và Trung tâm điều khiển luôn ở lại</b> trên menu bar, Mintbar không đưa hai mục này vào nhóm.</li>
@@ -2727,14 +2727,14 @@ GUIDES.append(dict(
 <h2 id="group">Make a group</h2>
 <ol class="steps"><li>Under <b>Groups</b>, click <b>New group</b>.</li>
 <li>Name it and pick an icon: 12 are free, Plus has every icon set and your own colors.</li>
-<li>Tick the apps to gather. Their icons leave the menu bar and the group icon takes their place.</li></ol>
+<li>Click <b>Add apps</b> to see the full list, then tick the apps to gather. Their icons leave the menu bar and the group icon takes their place.</li></ol>
 <figure class="fig-app"><img src="../mintbar.jpg" alt="The Mintbar page in Tidymint: the apps with a menu bar icon and two groups, AI and Connection" width="1600" height="1079" loading="lazy"><figcaption>The Mintbar page: which group each app is in, and the two groups in use.</figcaption></figure>
 <p>A row of small dots under the group icon shows one dot per app. An app can sit in several groups.</p>
 <h2 id="use">Open an app from a group</h2>
 <ul><li><b>Click the group icon</b>: its apps open right below. Click again, or press Esc, to close.</li>
 <li><b>Click one of those apps</b>: its menu or panel opens. An app that is not running is started.</li>
 <li><b>Option-click the group icon</b>: opens the Mintbar page.</li>
-<li><b>Reorder icons</b>: hold ⌘ and drag an icon to its new place. This is built into macOS and works for group icons too.</li></ul>
+<li><b>Reorder icons</b>: hold ⌘ and drag an icon to its new place.</li></ul>
 <figure class="fig-app"><img src="../mintbar-fan.jpg" alt="Clicking the Tools group opens its four apps right below the menu bar, with the pointer on Google Drive" width="900" height="250" loading="lazy"><figcaption>Click a group: its apps open right below.</figcaption></figure>
 <h2 id="notes">Good to know</h2>
 <ul><li><b>The clock and Control Center always stay</b> in the menu bar. Mintbar never offers them for a group.</li>
